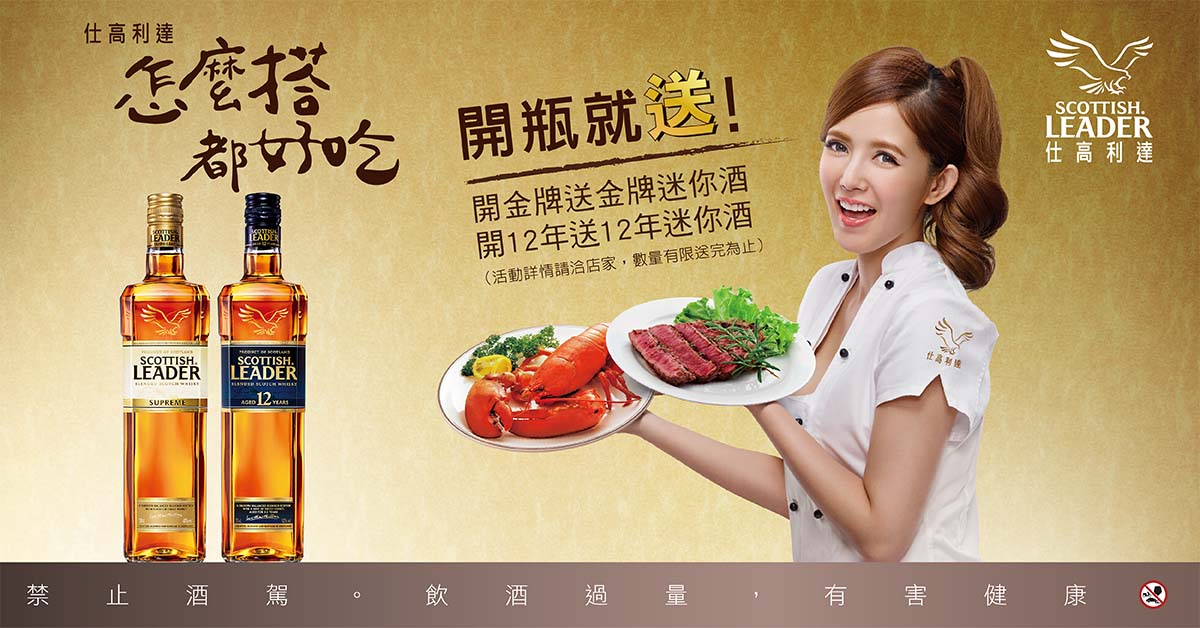
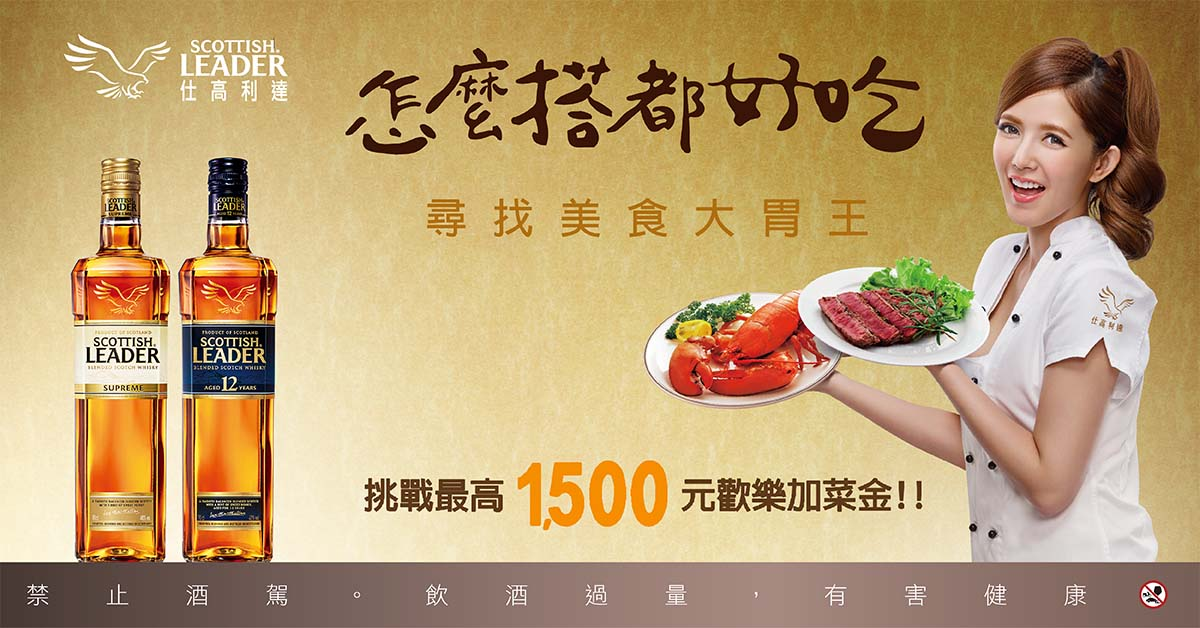
change img

diff --git a/web-server/public/scripts/fb.js b/web-server/public/scripts/fb.js
@@ -71,7 +71,7 @@ MFB.seedUI = function (callback) {
         link: 'http://52.11.186.93:3000/home.html',
         name: '仕高利達 怎麼搭都好吃',
         caption: 'SCOTTISH LEADER',
-        description: '挑戰最高1500元歡樂加菜金!!'
+        description: '尋找美食大胃王 挑戰最高1500元歡樂加菜金!'
     };
     FB.ui(publish, callback);
 }

diff --git a/web-server/public/main/scripts/state_start.js b/web-server/public/main/scripts/state_start.js
@@ -57,7 +57,7 @@ StateStart.prototype.start = function () {
     if (this.interval) {
     	clearInterval(this.interval);
     }
-    this.interval = setInterval(function(){ self.run(); }, 100);	
+    this.interval = setInterval(function(){ self.run(); }, 1000);	
 };
 
 
